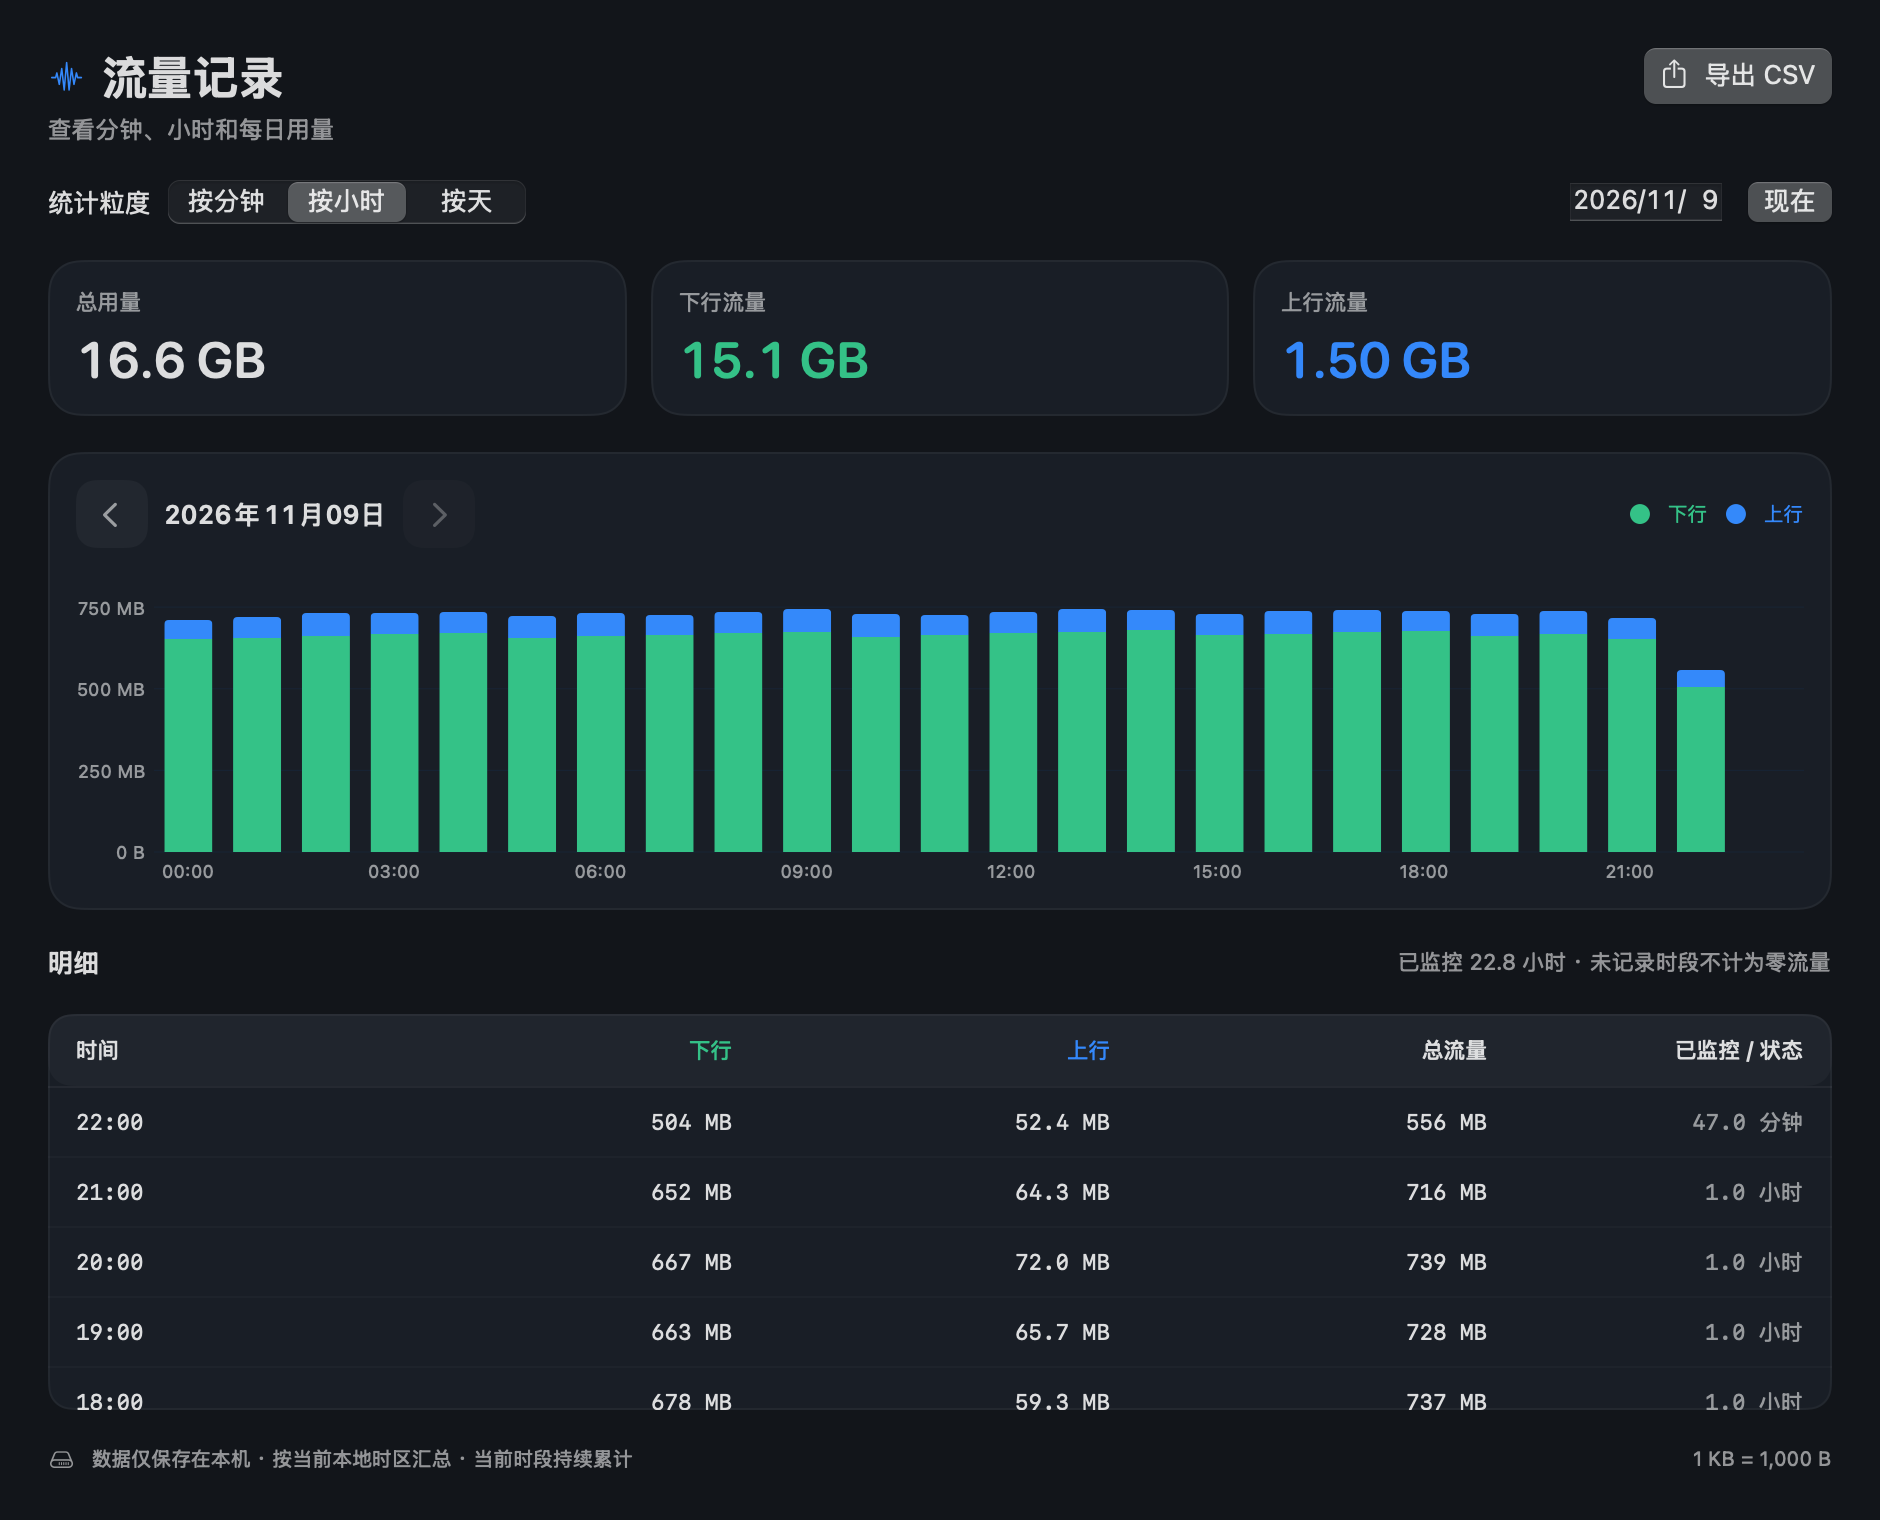
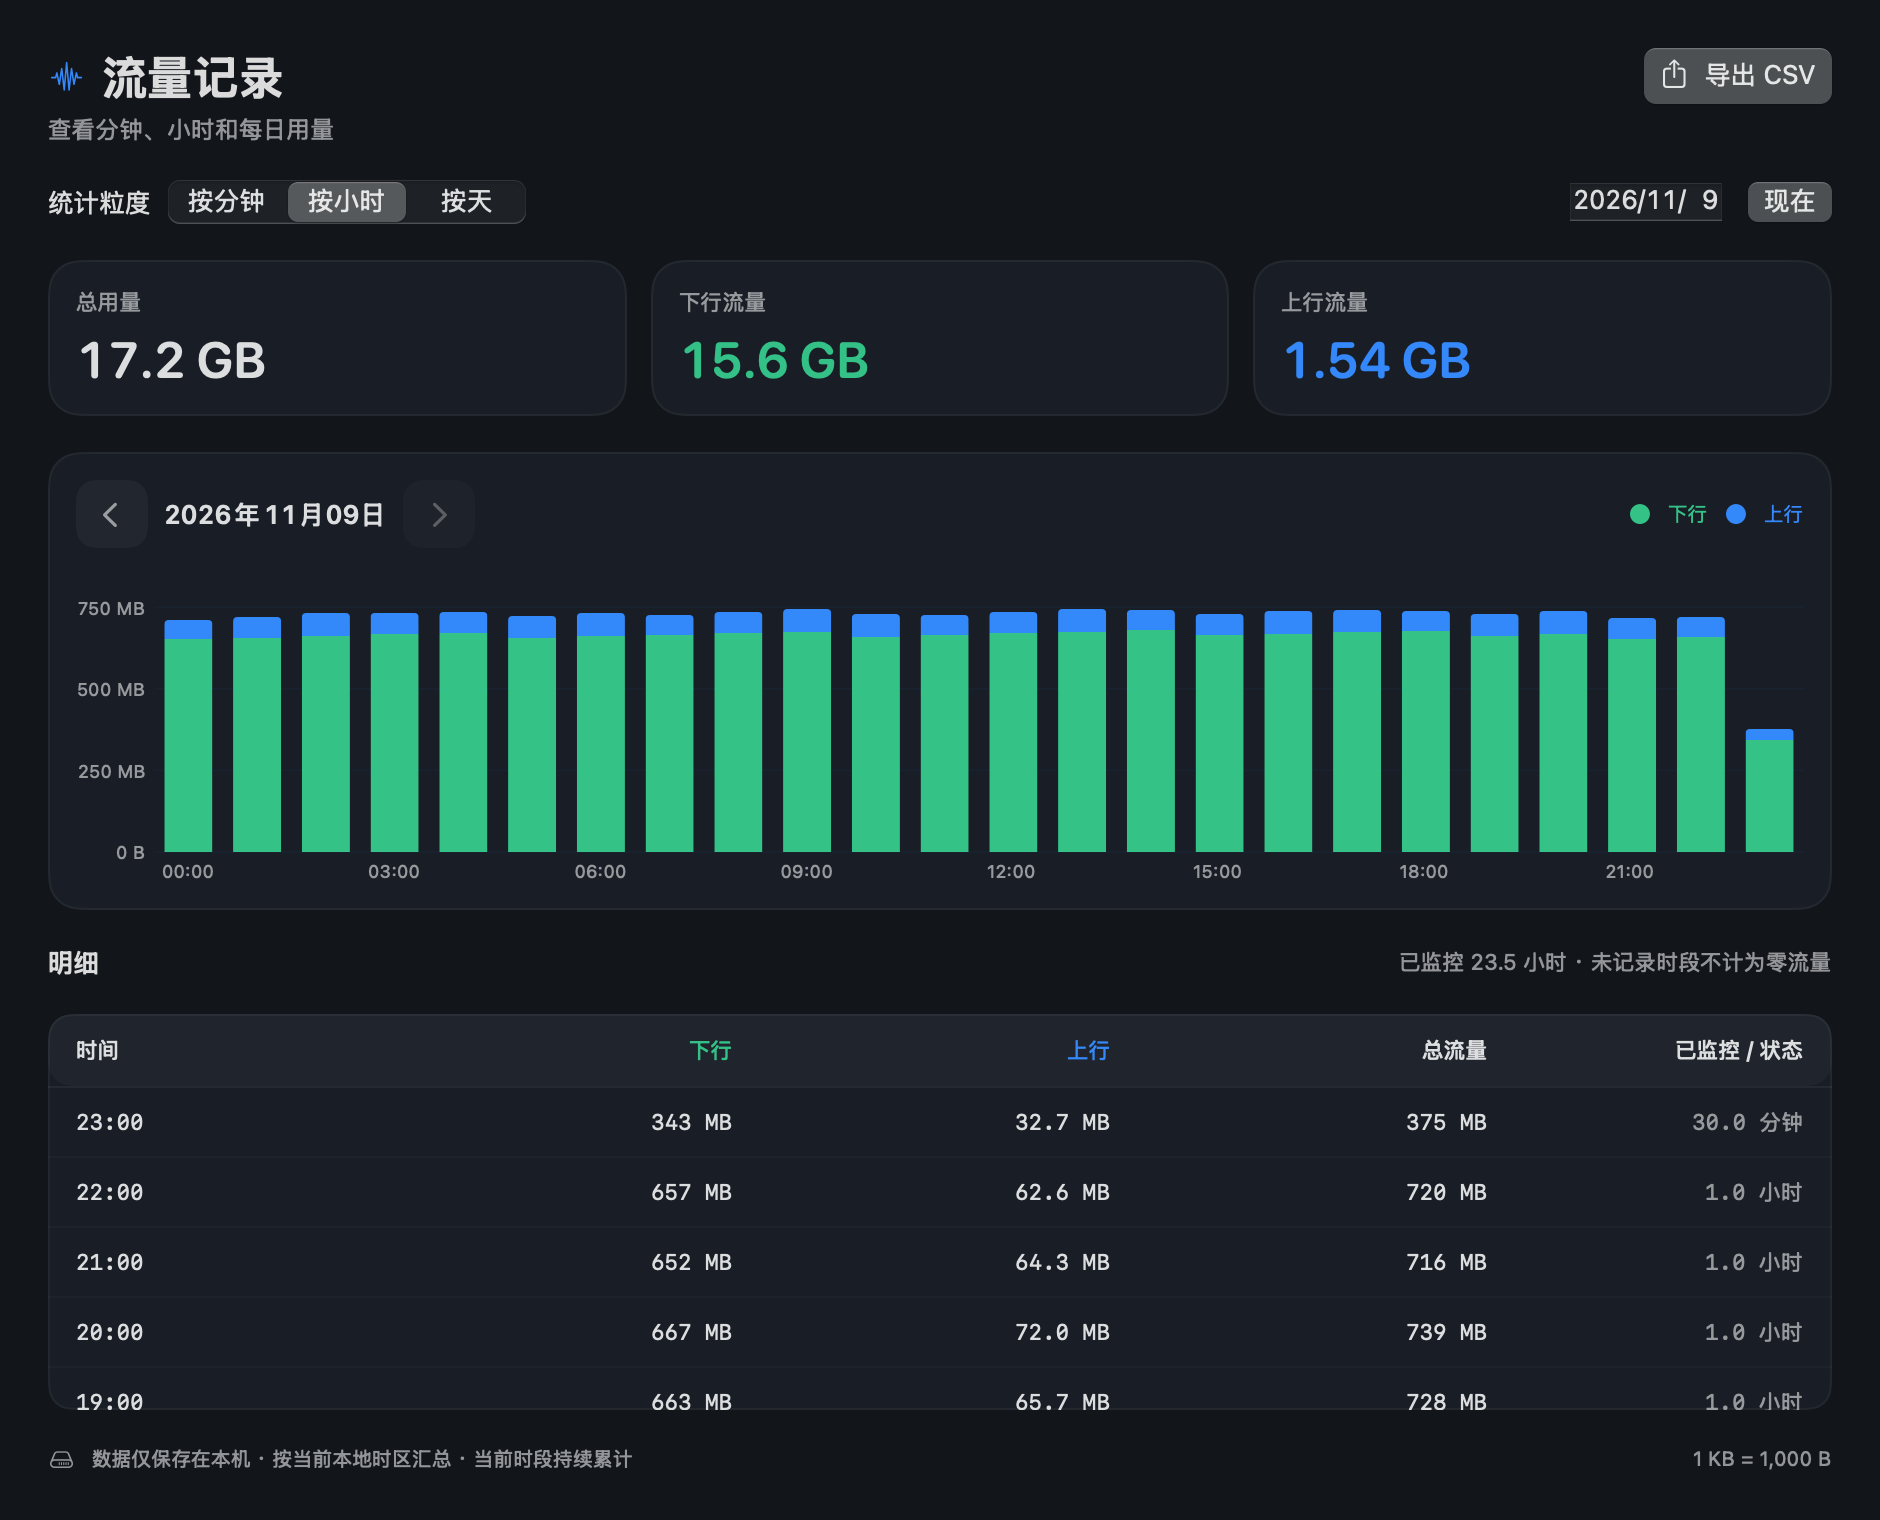
Show menu panel and history screenshots in README

diff --git a/README.md b/README.md
@@ -18,6 +18,22 @@
 - 深色、浅色和跟随系统三种外观。菜单栏可显示实时速率、今日用量或仅图标。
 - 历史长期保存在本机，退出或重启后继续累计，不上传数据。
 
+## 界面预览
+
+以下为使用演示数据生成的应用界面截图，不包含个人网络使用记录。
+
+### 菜单栏面板
+
+实时上下行速率、流量曲线和今日用量一目了然；最近记录可切换分钟、小时或天。
+
+<img src="docs/panel.png" alt="NetFlow 菜单栏面板：实时上下行速率、今日流量，以及可切换分钟、小时和天的最近记录" width="400">
+
+### 历史记录
+
+按分钟、小时或天查看流量图表与明细，支持日期切换和 CSV 导出。
+
+<img src="docs/history.png" alt="NetFlow 历史记录窗口：统计粒度与日期选择、上下行流量图表、历史明细和 CSV 导出" width="940">
+
 ## 统计口径
 
 自动模式读取所有 `en*` 物理网卡（通常包括 Wi-Fi、有线、USB 共享网络），排除 `lo0`、`utun*`、`awdl*`、`llw*`、网桥等接口，避免 VPN 和虚拟接口重复统计。特殊桥接网络可在设置中指定单一接口。接口更换时重新建立基线，旧记录保留，历史展示的是当时所选接口的合计，不能事后按接口拆分。
